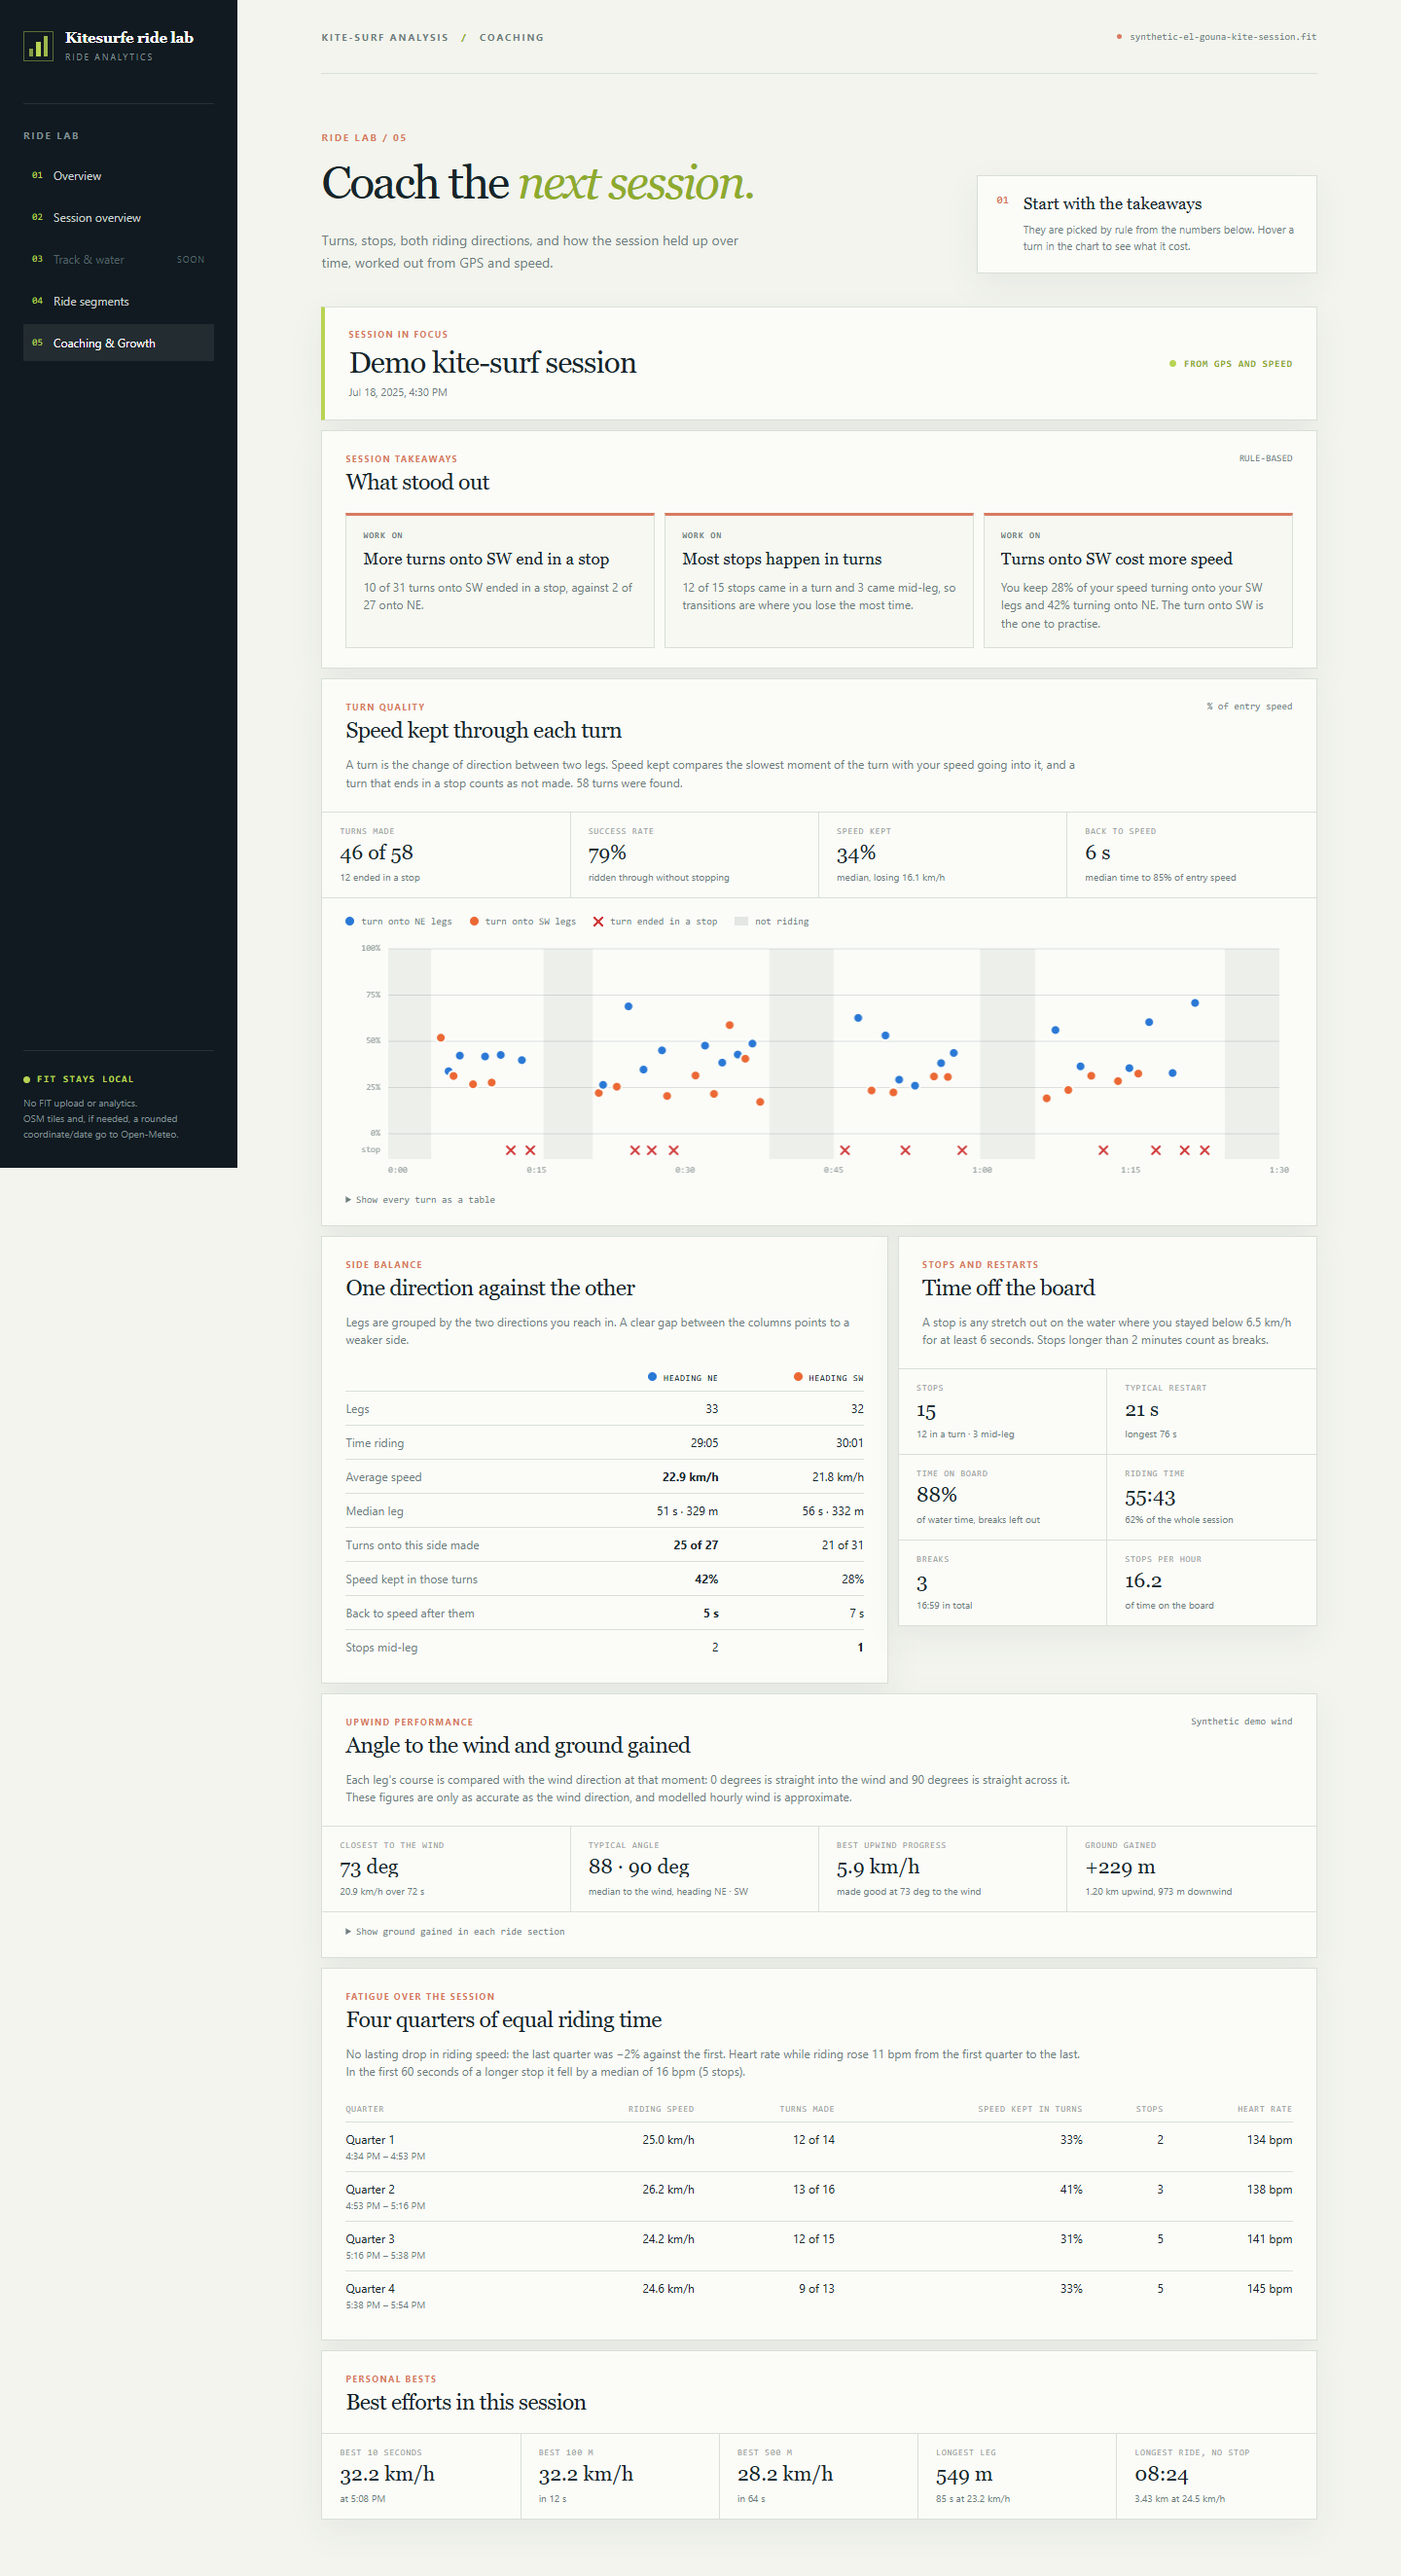
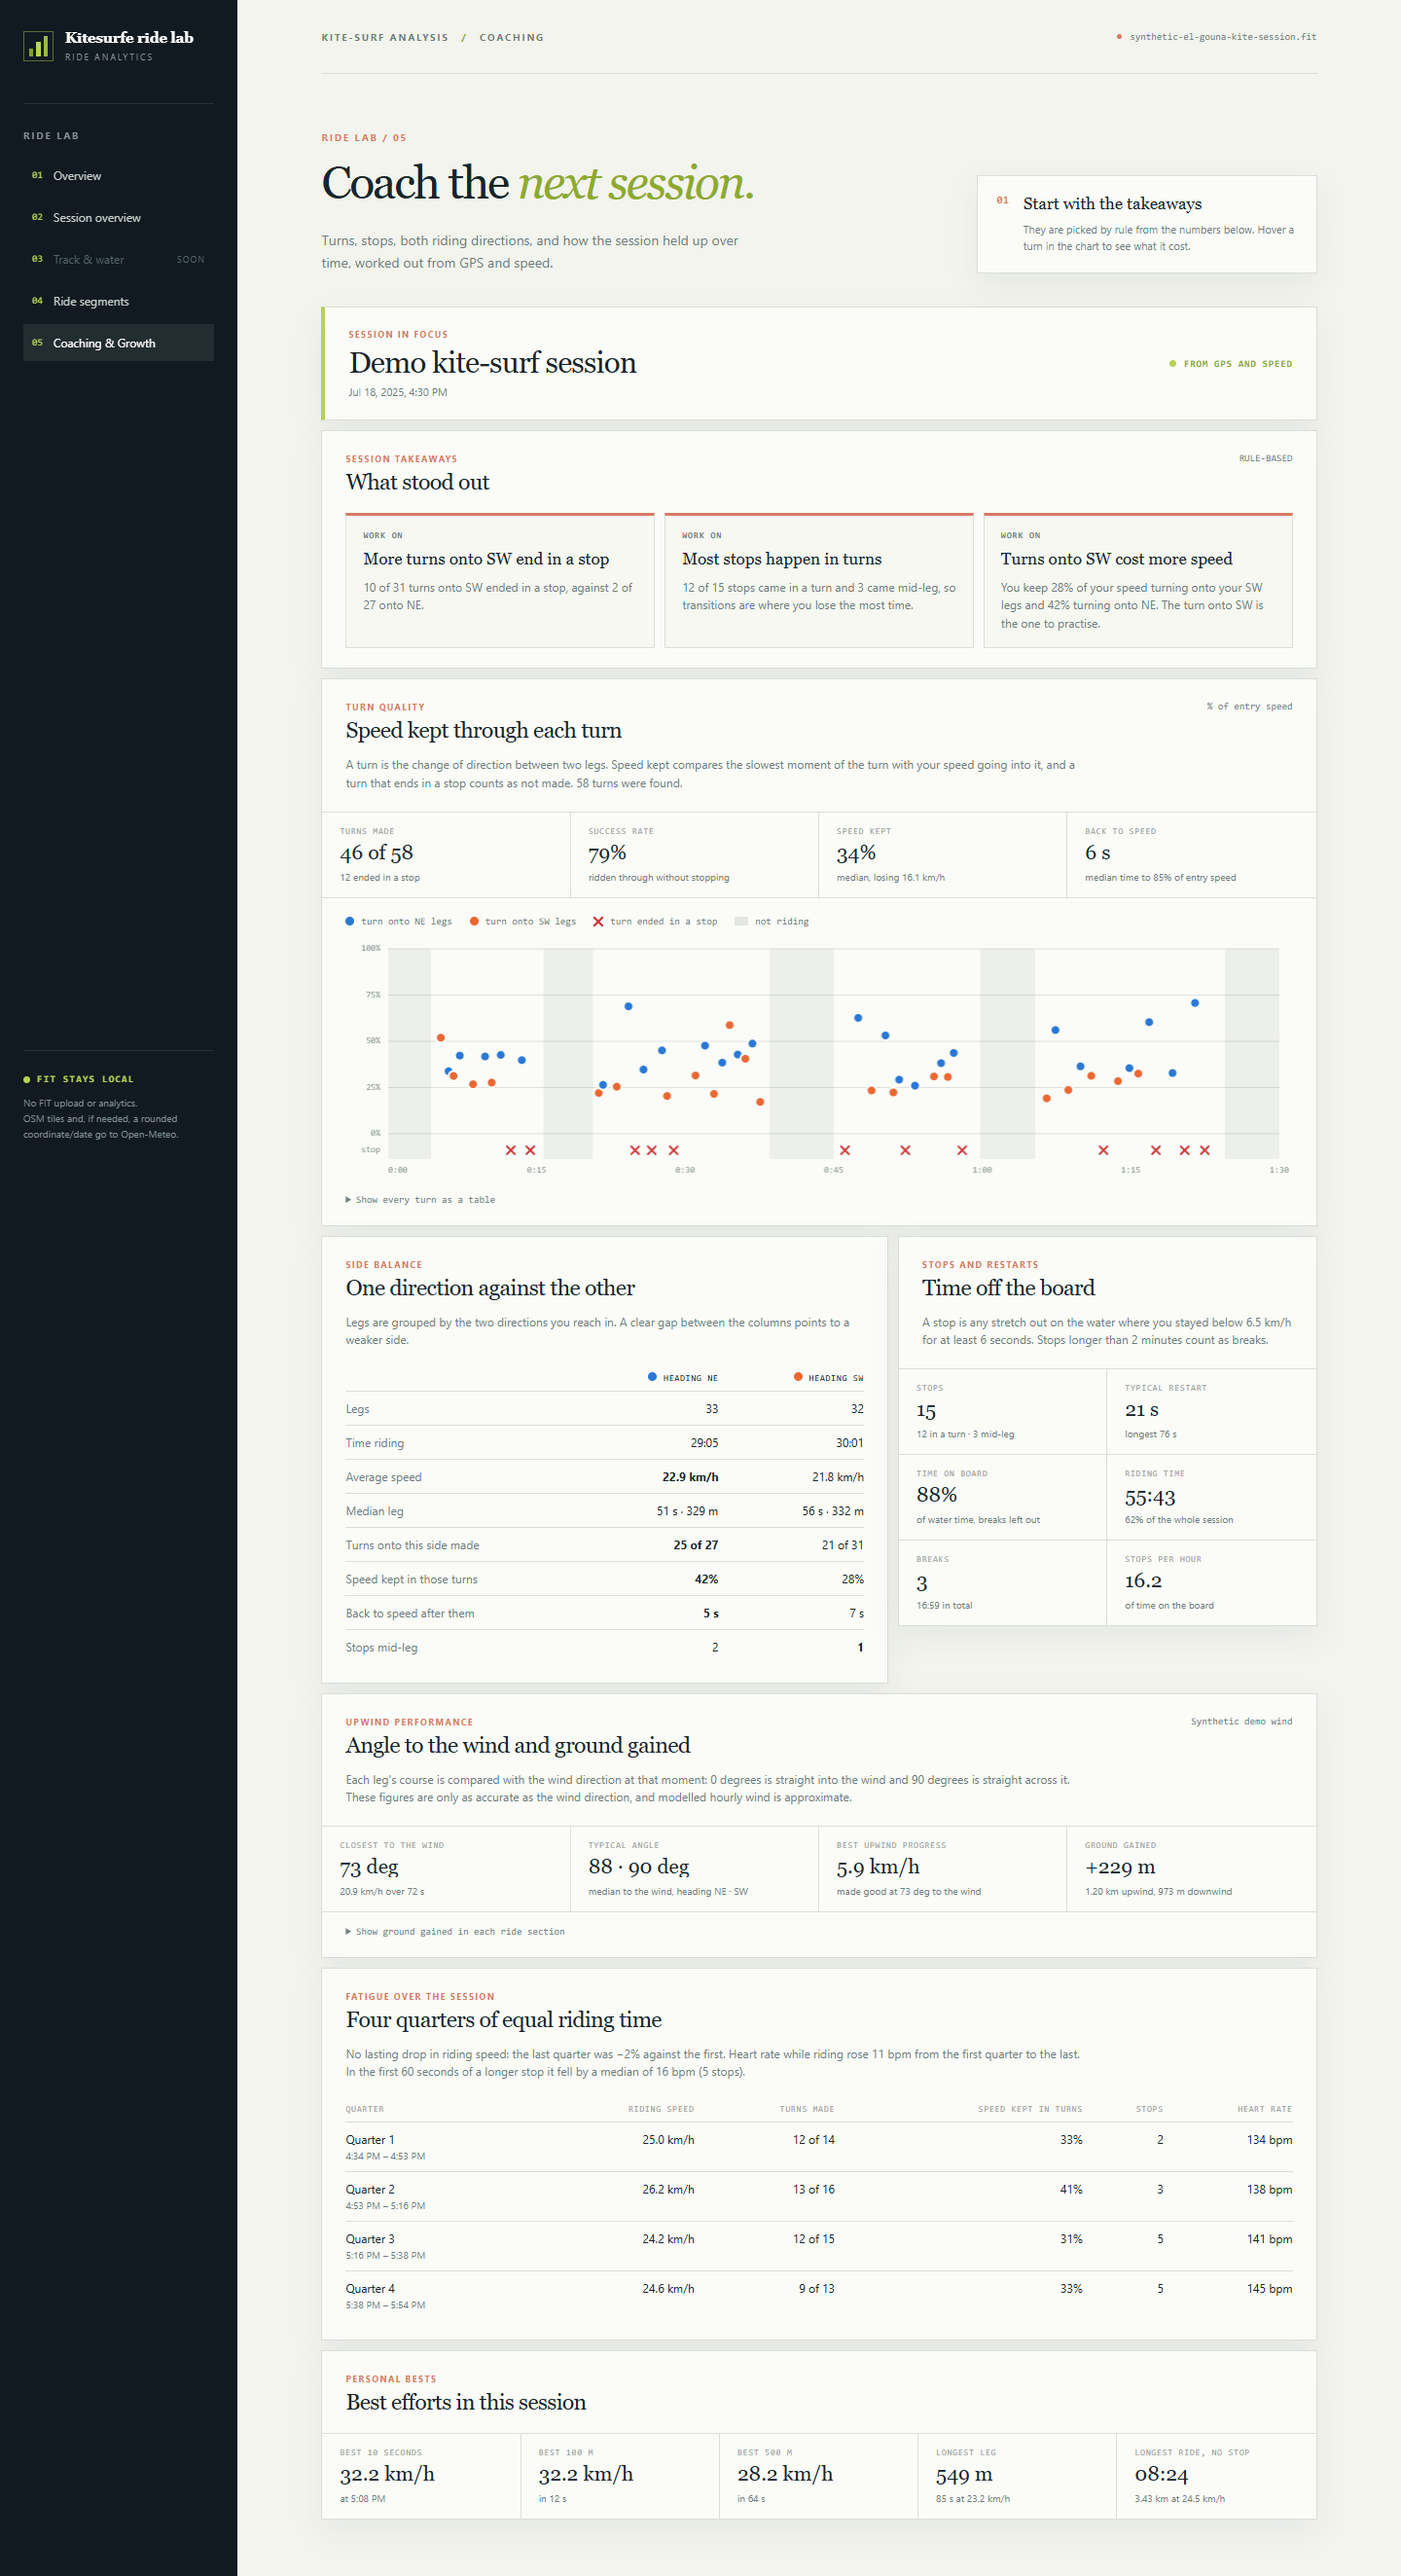
fix side bar adaption to content height

Changed region(s): [[0.0, 0.4337, 0.1875, 1.0]]

diff --git a/public/styles.css b/public/styles.css
@@ -22,7 +22,10 @@ button { cursor: pointer; }
 .hidden { display: none !important; }
 
 .app-shell { min-height: 100vh; display: grid; grid-template-columns: 244px minmax(0, 1fr); }
-.sidebar { position: sticky; top: 0; height: 100vh; display: flex; flex-direction: column; padding: 31px 24px 27px; background: var(--sidebar); color: white; }
+/* The dark column stretches with the page content; the menu inside it stays pinned to the viewport
+   and scrolls on its own when the window is too short to show all of it. */
+.sidebar { background: var(--sidebar); color: white; }
+.sidebar-inner { position: sticky; top: 0; height: 100vh; height: 100dvh; display: flex; flex-direction: column; padding: 31px 24px 27px; overflow-y: auto; scrollbar-width: thin; scrollbar-color: rgba(255,255,255,.22) transparent; }
 .brand-lockup { display: flex; align-items: center; gap: 12px; }
 .brand-mark { width: 31px; height: 31px; display: flex; align-items: end; gap: 3px; padding: 4px 5px; border: 1px solid rgba(184, 211, 84, .45); }
 .brand-mark span { display: block; width: 5px; background: var(--lime); }
@@ -43,8 +46,8 @@ button { cursor: pointer; }
 .detail-panel { min-height: 300px; }.detail-list { margin: 27px 0 0; }.detail-list div { display: flex; justify-content: space-between; gap: 20px; padding: 11px 0; border-bottom: 1px solid #e7ebe3; }.detail-list div:first-child { padding-top: 0; }.detail-list dt { color: var(--muted); font-size: 11px; }.detail-list dd { margin: 0; color: var(--ink); font: 11px ui-monospace, SFMono-Regular, Menlo, monospace; text-align: right; }
 .inventory-section { margin-top: 10px; padding: 26px 24px 0; border: 1px solid var(--line); background: var(--card); box-shadow: var(--shadow); }.inventory-heading { display: flex; justify-content: space-between; align-items: end; gap: 20px; }.inventory-heading > p { margin: 0 0 3px; color: var(--muted); font-size: 11px; }.inventory-table-wrap { overflow-x: auto; margin-top: 20px; }.inventory-table { width: 100%; min-width: 570px; border-collapse: collapse; text-align: left; }.inventory-table th { padding: 10px 8px; color: var(--faint); border-top: 1px solid var(--line); border-bottom: 1px solid var(--line); font: 9px ui-monospace, SFMono-Regular, Menlo, monospace; letter-spacing: 1px; text-transform: uppercase; }.inventory-table td { padding: 13px 8px; border-bottom: 1px solid #e9ede6; color: var(--muted); font-size: 11px; }.inventory-table td:first-child { color: var(--ink); }.table-number { width: 80px; text-align: right; }.message-name { display: inline-block; min-width: 120px; font: 11px ui-monospace, SFMono-Regular, Menlo, monospace; }.message-number { color: var(--faint); font: 9px ui-monospace, SFMono-Regular, Menlo, monospace; }.inventory-table strong { color: var(--ink); font: 14px Georgia, serif; }.field-list { display: flex; flex-wrap: wrap; gap: 5px; max-width: 700px; }.field-token { display: inline-block; padding: 4px 6px; color: var(--ink); border: 1px solid #dfe6d9; background: #f5f7ef; font: 10px ui-monospace, SFMono-Regular, Menlo, monospace; white-space: nowrap; }.field-token.developer-field { color: #965743; border-color: #eed1c4; background: #fff6f1; }.dashboard-footnote { display: flex; align-items: center; gap: 9px; margin-top: 22px; color: var(--faint); font-size: 11px; }.footnote-mark { color: var(--coral); font-size: 16px; }.text-button { margin-left: auto; padding: 0; border: 0; background: transparent; color: var(--lime-deep); font: 700 10px ui-monospace, SFMono-Regular, Menlo, monospace; }.text-button:hover { color: var(--ink); }.error-banner { display: flex; align-items: center; gap: 9px; margin-top: 15px; padding: 13px 15px; color: #804431; border: 1px solid #e5b5a3; background: #fff2ed; font-size: 11px; }.error-banner strong { color: #6c3121; }.error-banner .text-button { color: #a9573e; }
 
-@media (max-width: 980px) { .app-shell { grid-template-columns: 190px minmax(0, 1fr); }.sidebar { padding-left: 18px; padding-right: 18px; }.main-content { padding-left: 4vw; padding-right: 4vw; }.page-intro { align-items: start; flex-direction: column; }.import-actions { justify-content: start; max-width: none; }.privacy-note { text-align: left; }.content-grid { grid-template-columns: minmax(0, 1fr); grid-template-areas: "speed" "heart" "detail" "map"; grid-template-rows: auto; }.chart-wide { grid-row: auto; }.chart-panel { min-height: 280px; } }
-@media (max-width: 650px) { .app-shell { display: block; }.sidebar { position: static; height: auto; display: block; padding: 17px 18px; }.sidebar-rule { margin: 17px 0 12px; }.nav-label, .sidebar-bottom { display: none; }.nav-list { display: flex; gap: 4px; overflow-x: auto; }.nav-item { min-height: 32px; padding: 0 8px; white-space: nowrap; }.nav-item.disabled { display: none; }.main-content { padding: 0 17px 40px; }.topbar { height: 58px; }.topbar-meta { max-width: 145px; overflow: hidden; white-space: nowrap; text-overflow: ellipsis; }.page-intro { padding: 39px 0 32px; gap: 30px; }.page-intro h1 { letter-spacing: -2px; }.intro-copy { font-size: 13px; }.import-actions { display: grid; grid-template-columns: 1fr; width: 100%; }.button { width: 100%; }.privacy-note { margin-top: 2px; }.empty-state { min-height: 320px; padding: 32px 23px; }.empty-grid-mark { width: 45%; opacity: .35; }.activity-hero { align-items: start; flex-direction: column; gap: 21px; padding: 22px 19px; }.hero-side { width: 100%; display: flex; align-items: center; justify-content: space-between; text-align: left; }.hero-side p { margin: 0; }.metric-grid { grid-template-columns: repeat(2, 1fr); }.metric-card { min-height: 126px; padding: 16px; }.metric-label { margin-bottom: 14px; font-size: 9px; }.metric-card strong { font-size: 24px; }.content-grid { gap: 8px; }.chart-panel, .detail-panel, .map-panel { padding: 20px 17px 14px; }.chart-wrap { height: 190px; }.map-wrap { flex: none; height: 240px; min-height: 240px; }.inventory-section { padding: 22px 15px 0; }.inventory-heading { align-items: start; flex-direction: column; gap: 10px; }.dashboard-footnote { align-items: start; flex-wrap: wrap; }.dashboard-footnote .text-button { width: 100%; margin: 5px 0 0 25px; text-align: left; } }
+@media (max-width: 980px) { .app-shell { grid-template-columns: 190px minmax(0, 1fr); }.sidebar-inner { padding-left: 18px; padding-right: 18px; }.main-content { padding-left: 4vw; padding-right: 4vw; }.page-intro { align-items: start; flex-direction: column; }.import-actions { justify-content: start; max-width: none; }.privacy-note { text-align: left; }.content-grid { grid-template-columns: minmax(0, 1fr); grid-template-areas: "speed" "heart" "detail" "map"; grid-template-rows: auto; }.chart-wide { grid-row: auto; }.chart-panel { min-height: 280px; } }
+@media (max-width: 650px) { .app-shell { display: block; }.sidebar-inner { position: static; height: auto; display: block; padding: 17px 18px; overflow: visible; }.sidebar-rule { margin: 17px 0 12px; }.nav-label, .sidebar-bottom { display: none; }.nav-list { display: flex; gap: 4px; overflow-x: auto; }.nav-item { min-height: 32px; padding: 0 8px; white-space: nowrap; }.nav-item.disabled { display: none; }.main-content { padding: 0 17px 40px; }.topbar { height: 58px; }.topbar-meta { max-width: 145px; overflow: hidden; white-space: nowrap; text-overflow: ellipsis; }.page-intro { padding: 39px 0 32px; gap: 30px; }.page-intro h1 { letter-spacing: -2px; }.intro-copy { font-size: 13px; }.import-actions { display: grid; grid-template-columns: 1fr; width: 100%; }.button { width: 100%; }.privacy-note { margin-top: 2px; }.empty-state { min-height: 320px; padding: 32px 23px; }.empty-grid-mark { width: 45%; opacity: .35; }.activity-hero { align-items: start; flex-direction: column; gap: 21px; padding: 22px 19px; }.hero-side { width: 100%; display: flex; align-items: center; justify-content: space-between; text-align: left; }.hero-side p { margin: 0; }.metric-grid { grid-template-columns: repeat(2, 1fr); }.metric-card { min-height: 126px; padding: 16px; }.metric-label { margin-bottom: 14px; font-size: 9px; }.metric-card strong { font-size: 24px; }.content-grid { gap: 8px; }.chart-panel, .detail-panel, .map-panel { padding: 20px 17px 14px; }.chart-wrap { height: 190px; }.map-wrap { flex: none; height: 240px; min-height: 240px; }.inventory-section { padding: 22px 15px 0; }.inventory-heading { align-items: start; flex-direction: column; gap: 10px; }.dashboard-footnote { align-items: start; flex-wrap: wrap; }.dashboard-footnote .text-button { width: 100%; margin: 5px 0 0 25px; text-align: left; } }
 
 /* Online map tiles are deliberately kept separate from the route canvas. */
 .map-wrap { background: #dce8d7; }

diff --git a/public/index.html b/public/index.html
@@ -10,6 +10,7 @@
   <body>
     <div class="app-shell">
       <aside class="sidebar">
+        <div class="sidebar-inner">
         <div class="brand-lockup">
           <div class="brand-mark" aria-hidden="true"><span></span><span></span><span></span></div>
           <div>
@@ -31,6 +32,7 @@
         <div class="sidebar-bottom">
           <div class="local-badge"><span class="pulse-dot"></span>FIT stays local</div>
           <p>No FIT upload or analytics.<br />OSM tiles and, if needed, a rounded coordinate/date go to Open-Meteo.</p>
+        </div>
         </div>
       </aside>
 
